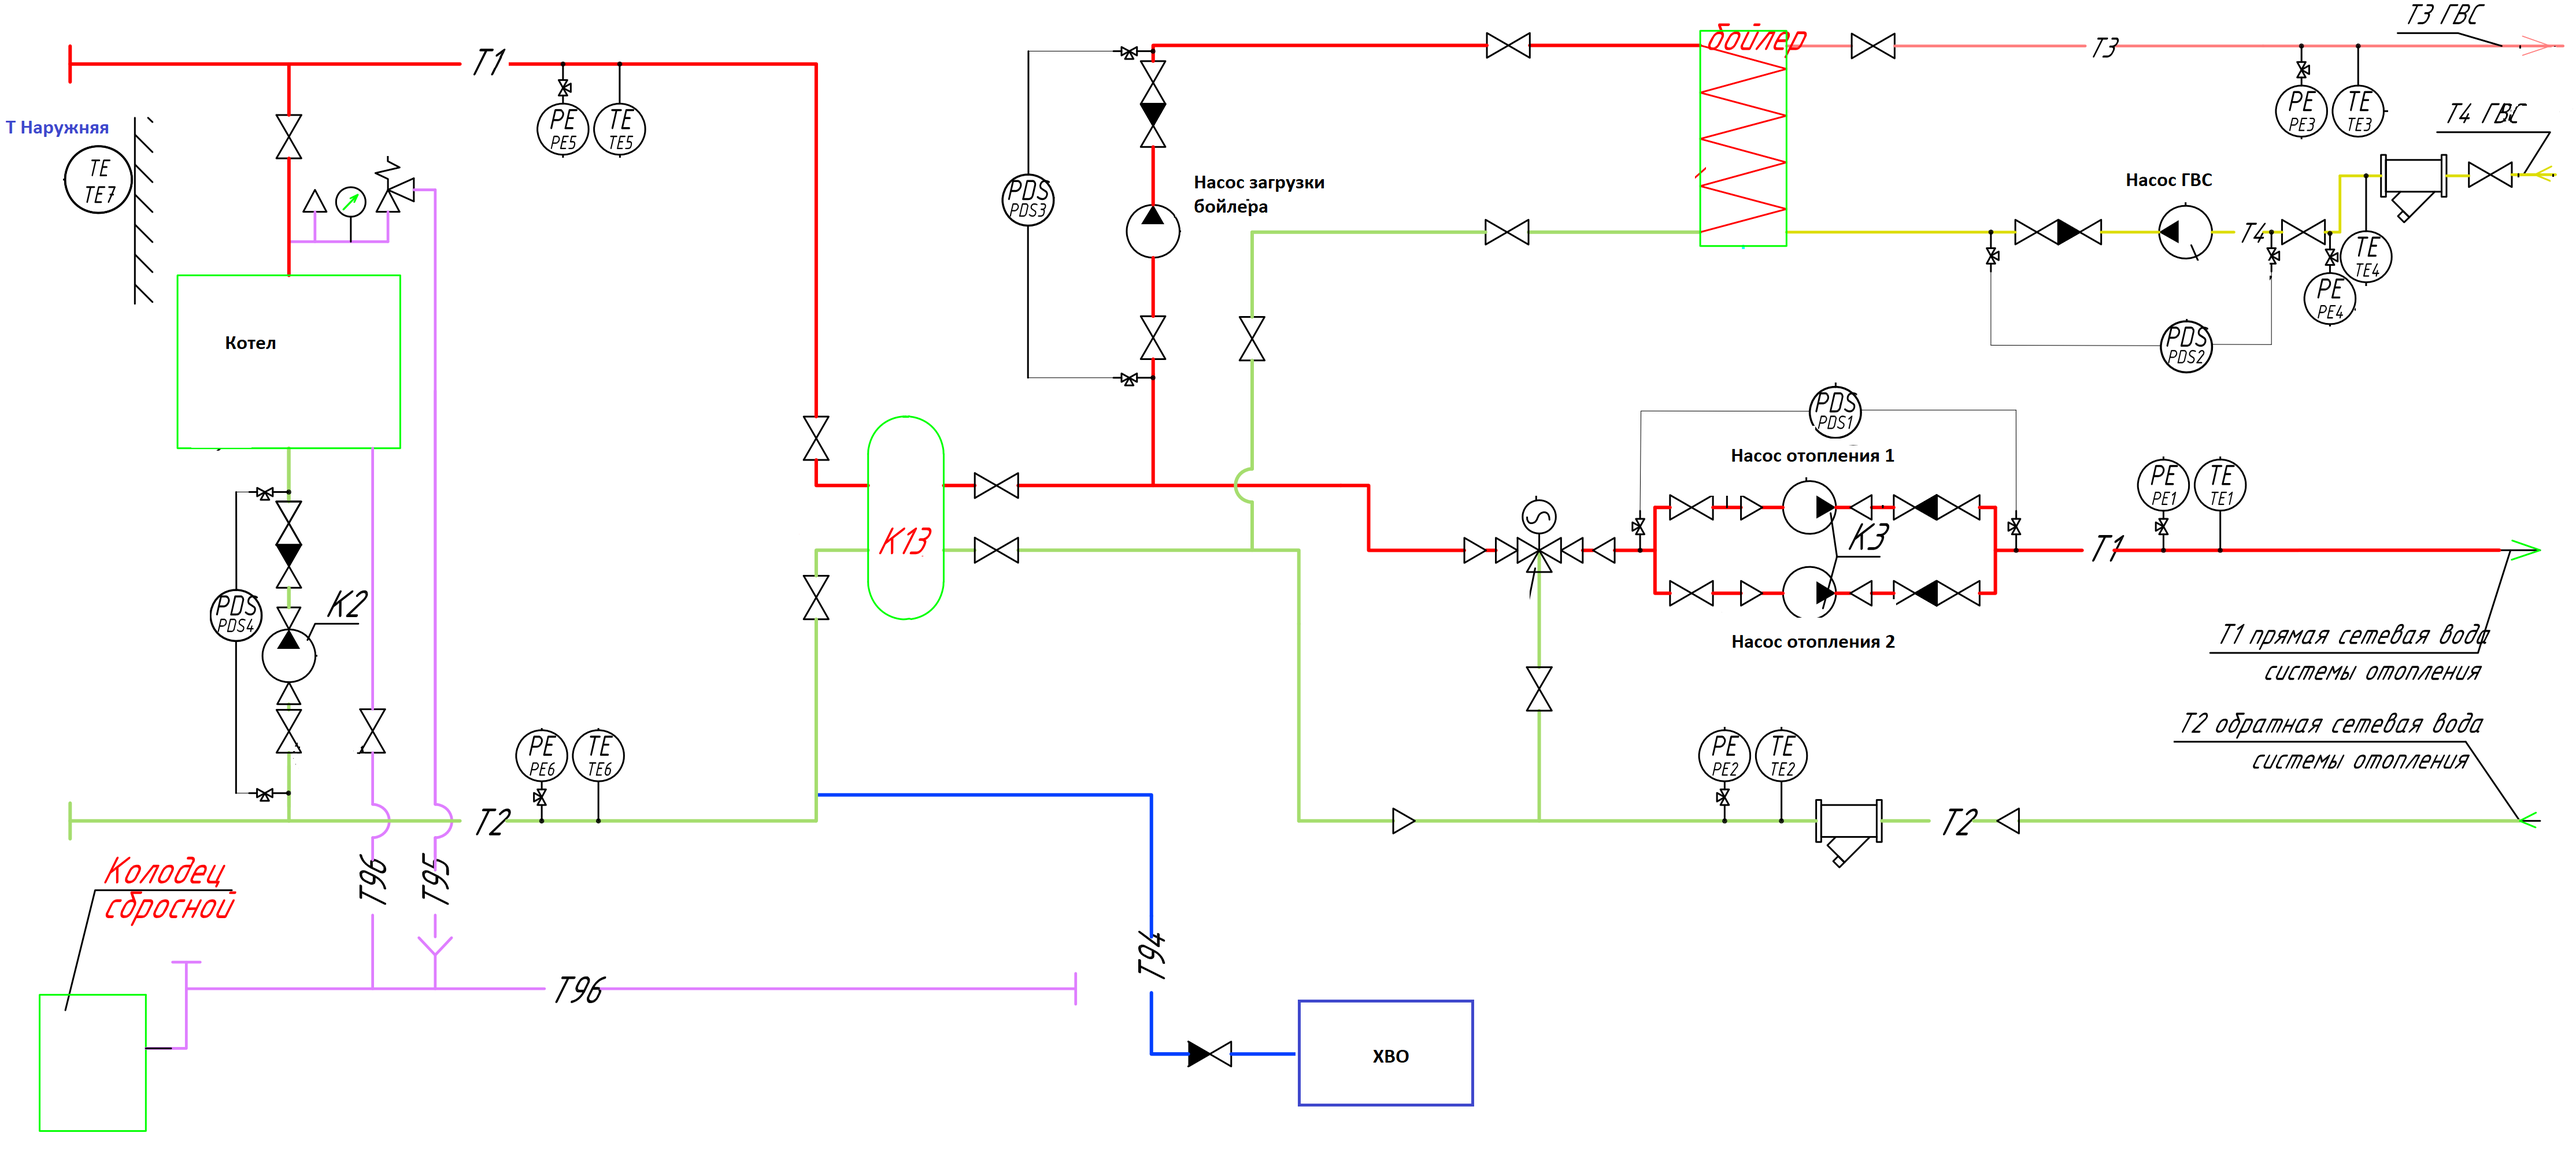
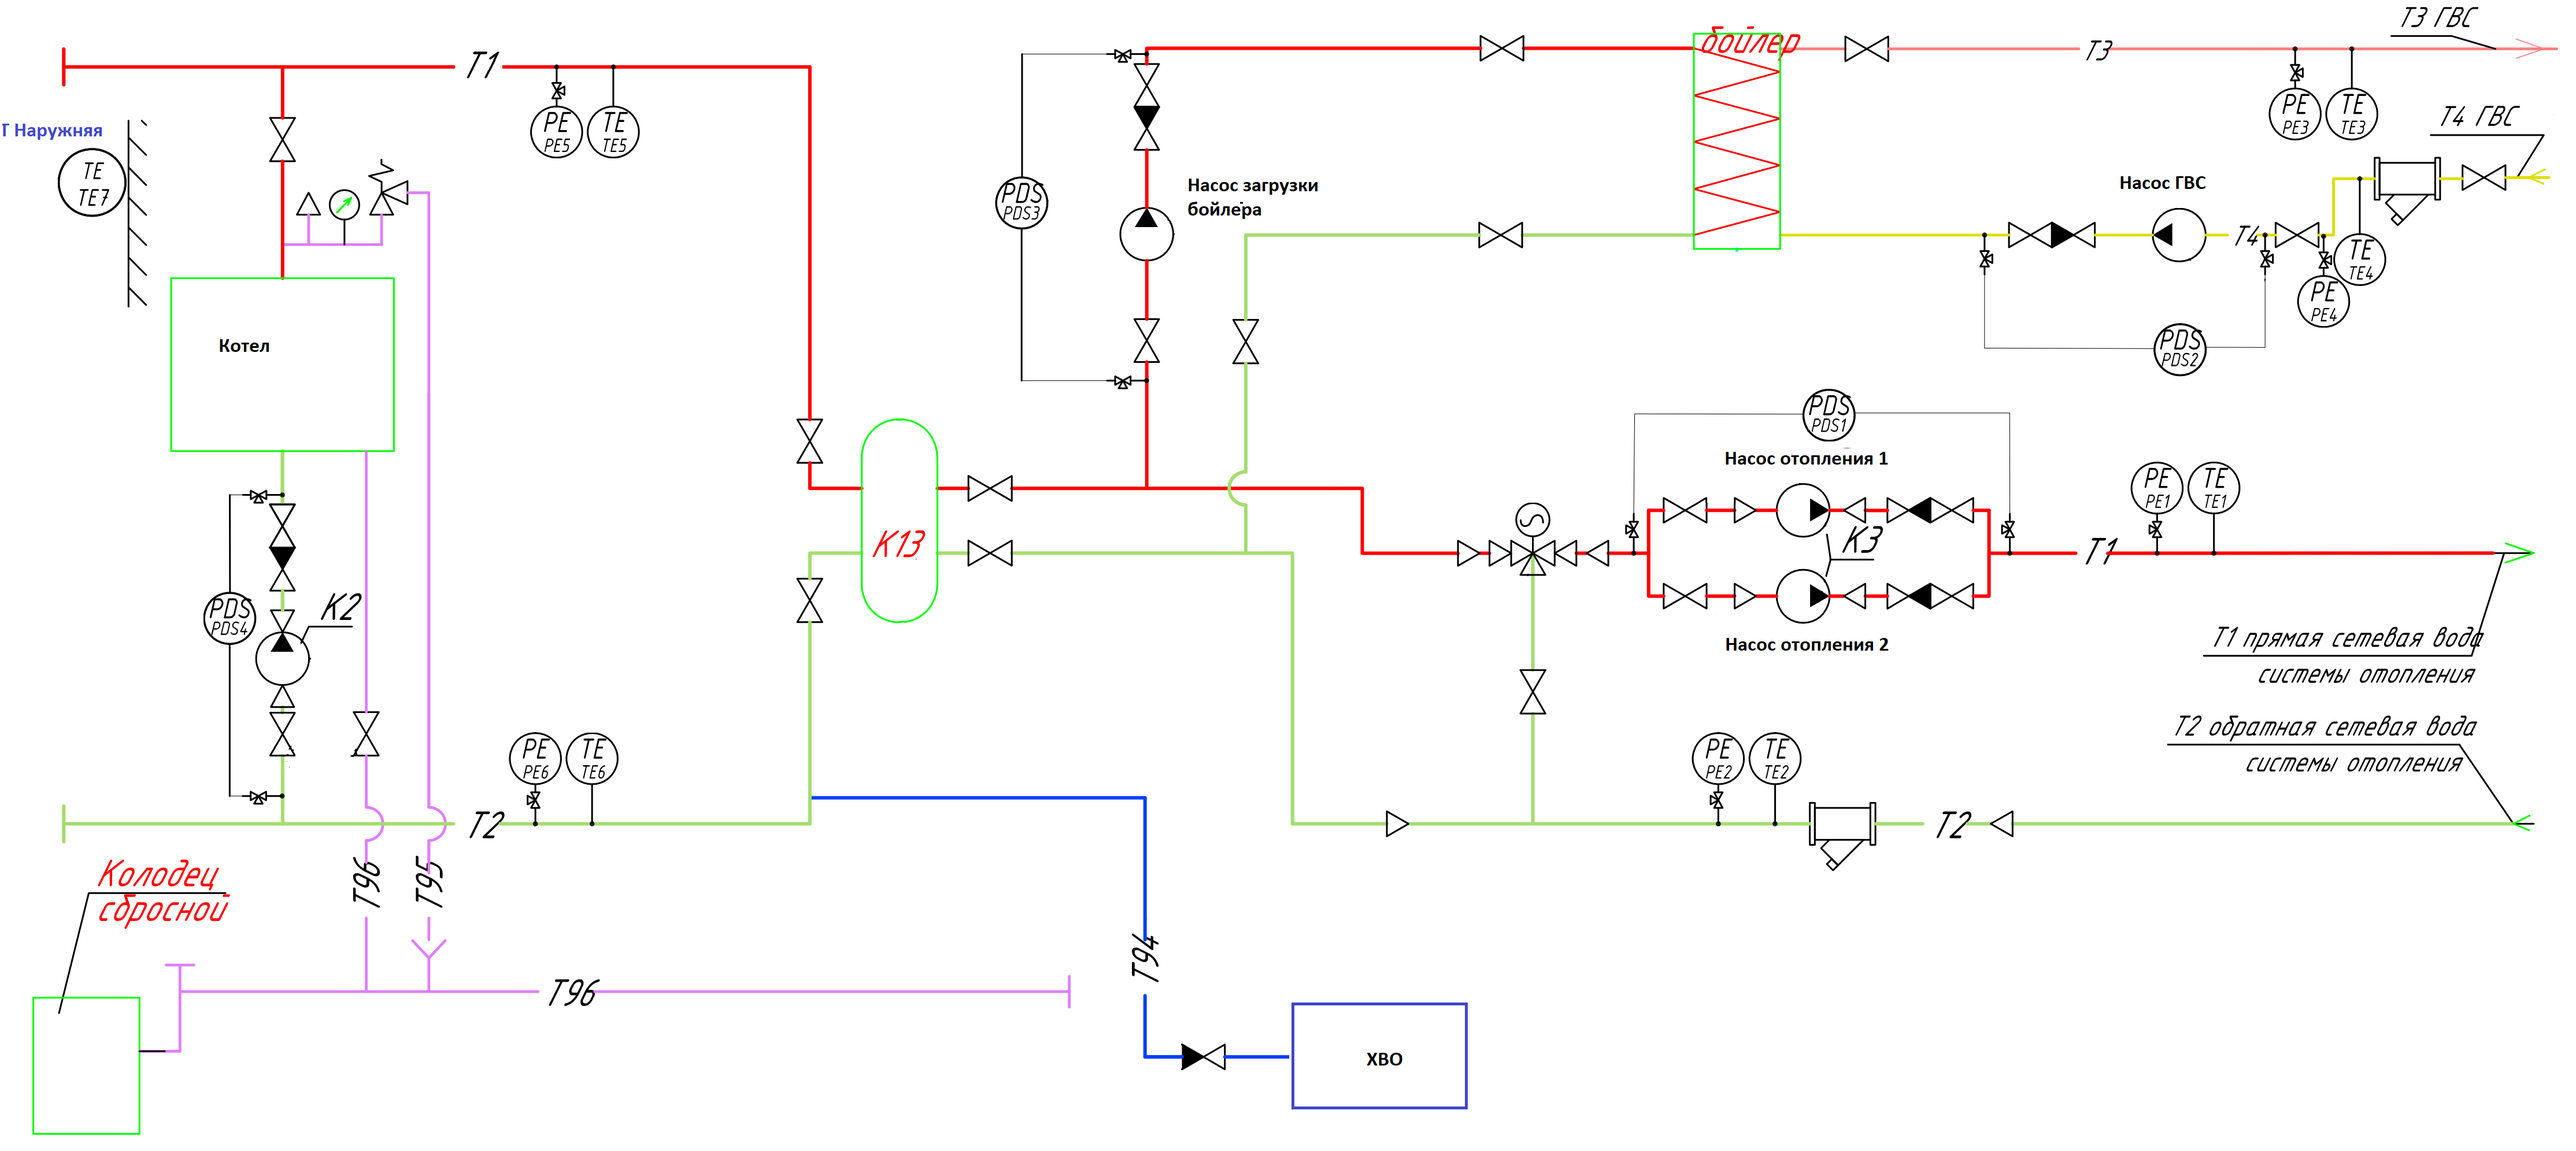
New indicators, Background2 upgdaded, bg2 indicator set complete

diff --git a/src/indicatorDefinitions.js b/src/indicatorDefinitions.js
@@ -25,14 +25,157 @@ import {
 // ─── Diagram 1 ────────────────────────────────────────────────────────────────
 
 DigitalIndicatorCreate({
-  ind_id:   'di-temp',
+  ind_id:   'te_1-1',
   bg_id:    'diagram1',
-  label:    'Temperature',
+  label:    'TE1',
+  unit:     '°C',
+  top:      830,
+  left:     1760,
+  fontSize: 26,
+});
+
+DigitalRoundCreate({
+  ind_id:    'pe_1-1',   // unique registry key
+  data_id:   'pe_1-1',         // which API name to read the value from
+  bg_id:     'diagram1',
+  label:     'PE1',
+  unit:      'bar',
+  top:       790,
+  left:      1580,
+  radius:    45,
+  fontSize:  30,
+  defaultBg: '#0a1a2a',
+});
+
+DigitalIndicatorCreate({
+  ind_id:   'te_1-2',
+  bg_id:    'diagram1',
+  label:    'TE2',
   unit:     '°C',
   top:      1270,
   left:     1425,
   fontSize: 26,
 });
+
+DigitalRoundCreate({
+  ind_id:    'pe_1-2',   // unique registry key
+  data_id:   'pe_1-2',         // which API name to read the value from
+  bg_id:     'diagram1',
+  label:     'PE2',
+  unit:      'bar',
+  top:       1300,
+  left:      1250,
+  radius:    45,
+  fontSize:  30,
+  defaultBg: '#0a1a2a',
+});
+
+DigitalIndicatorCreate({
+  ind_id:   'te_1-3',
+  bg_id:    'diagram1',
+  label:    'TE3',
+  unit:     '°C',
+  top:      130,
+  left:     1860,
+  fontSize: 26,
+});
+
+DigitalRoundCreate({
+  ind_id:    'pe_1-3',   // unique registry key
+  data_id:   'pe_1-3',         // which API name to read the value from
+  bg_id:     'diagram1',
+  label:     'PE3',
+  unit:      'bar',
+  top:       190,
+  left:      1680,
+  radius:    45,
+  fontSize:  30,
+  defaultBg: '#0a1a2a',
+});
+
+DigitalIndicatorCreate({
+  ind_id:   'te_1-4',
+  bg_id:    'diagram1',
+  label:    'TE4',
+  unit:     '°C',
+  top:      445,
+  left:     1870,
+  fontSize: 26,
+});
+
+DigitalRoundCreate({
+  ind_id:    'pe_1-4',   // unique registry key
+  data_id:   'pe_1-4',         // which API name to read the value from
+  bg_id:     'diagram1',
+  label:     'PE4',
+  unit:      'bar',
+  top:       640,
+  left:      1810,
+  radius:    45,
+  fontSize:  30,
+  defaultBg: '#0a1a2a',
+});
+
+
+DigitalIndicatorCreate({
+  ind_id:   'te_1-5',
+  bg_id:    'diagram1',
+  label:    'TE5',
+  unit:     '°C',
+  top:      380,
+  left:     540,
+  fontSize: 26,
+});
+
+DigitalRoundCreate({
+  ind_id:    'pe_1-5',   // unique registry key
+  data_id:   'pe_1-5',         // which API name to read the value from
+  bg_id:     'diagram1',
+  label:     'PE5',
+  unit:      'bar',
+  top:       400,
+  left:      440,
+  radius:    45,
+  fontSize:  30,
+  defaultBg: '#0a1a2a',
+});
+
+DigitalRoundCreate({
+  ind_id:    'pe_1-6',   // unique registry key
+  data_id:   'pe_1-6',         // which API name to read the value from
+  bg_id:     'diagram1',
+  label:     'PE6',
+  unit:      'bar',
+  top:       1200,
+  left:      410,
+  radius:    45,
+  fontSize:  30,
+  defaultBg: '#0a1a2a',
+});
+
+DigitalIndicatorCreate({
+  ind_id:   'te_1-6',
+  bg_id:    'diagram1',
+  label:    'TE6',
+  unit:     '°C',
+  top:      1180,
+  left:     510,
+  fontSize: 26,
+});
+
+
+
+DigitalIndicatorCreate({
+  ind_id:   'te_1-7',
+  bg_id:    'diagram1',
+  label:    'TE7',
+  unit:     '°C',
+  top:      450,
+  left:     90,
+  fontSize: 26,
+});
+
+
 /*
 DigitalIndicatorCreate({
   ind_id:   'di-pressure',
@@ -45,26 +188,15 @@ DigitalIndicatorCreate({
   color:    '#00ffff',
 });
 */
-DigitalRoundCreate({
-  ind_id:    'di-pressure-round',   // unique registry key
-  data_id:   'di-pressure',         // which API name to read the value from
-  bg_id:     'diagram1',
-  label:     'Pressure',
-  unit:      'bar',
-  top:       1300,
-  left:      1250,
-  radius:    45,
-  fontSize:  30,
-  defaultBg: '#0a1a2a',
-});
+
 
 DigitalIndicatorCreate({
   ind_id:   'di-valve',
   bg_id:    'diagram1',
   label:    'Valve',
   unit:     '%',
-  top:      750,
-  left:     1150,
+  top:      800,
+  left:     1180,
   fontSize: 26,
   color:    '#00ffff',
 });
@@ -73,17 +205,18 @@ PumpIndicatorCreate({
   ind_id: 'pump1',
   bg_id:  'diagram1',
   label:  'PumpOne',
-  top:    262,
+  top:    435,
   left:   895,
   size:   60,
 });
 
 PumpIndicatorCreate({
-  ind_id: 'pump2',
+  ind_id: 'pds3',
   bg_id:  'diagram1',
-  label:  'PumpTwo',
-  top:    200,
-  left:   798,
+  label:  'PDS3',
+  fontSize: 26,
+  top:    385,
+  left:   803,
   size:   60,
 });
 /*
@@ -99,22 +232,102 @@ OnOffIndicatorCreate({
 */
 // ─── Diagram 2 ────────────────────────────────────────────────────────────────
 
-/*
-GasBurnerIndicatorCreate({
-  ind_id:   'burner_one',
-  bg_id:    'diagram2',
-  label:    'Burn',
-  top:      1850,
-  left:     420,
-  fontsize: 26,
+OnOffIndicatorCreate({
+  ind_id: 'cooling',
+  bg_id:  'diagram2',
+  label:  'Cooling',
+  top:    1495,
+  left:   548,
+  radius: 36,
+  color:  '#00e676',
 });
-*/
+
+OnOffIndicatorCreate({
+  ind_id: 'chimney',
+  bg_id:  'diagram2',
+  label:  'Chimney',
+  top:    1210,
+  left:   1160,
+  radius: 36,
+  color:  '#00e676',
+});
+
+OnOffIndicatorCreate({
+  ind_id: 'cyclon',
+  bg_id:  'diagram2',
+  label:  'Cyclon',
+  top:    1240,
+  left:   1035,
+  radius: 36,
+  color:  '#00e676',
+});
+
+DigitalIndicatorCreate({
+  ind_id:   'te_2-1',
+  bg_id:    'diagram2',
+  label:    'TE1',
+  unit:     '°C',
+  top:      1215,
+  left:     240,
+  fontSize: 26,
+});
+
+DigitalIndicatorCreate({
+  ind_id:   'te_2-2',
+  bg_id:    'diagram2',
+  label:    'TE2',
+  unit:     '°C',
+  top:      1645,
+  left:     335,
+  fontSize: 26,
+});
+
+DigitalIndicatorCreate({
+  ind_id:   'te_2-3',
+  bg_id:    'diagram2',
+  label:    'TE3',
+  unit:     '°C',
+  top:      100,
+  left:     1660,
+  fontSize: 26,
+});
+
+DigitalIndicatorCreate({
+  ind_id:   'te_2-4',
+  bg_id:    'diagram2',
+  label:    'TE4',
+  unit:     '°C',
+  top:      860,
+  left:     560,
+  fontSize: 26,
+});
+
+DigitalIndicatorCreate({
+  ind_id:   'te_2-5',
+  bg_id:    'diagram2',
+  label:    'TE5',
+  unit:     '°C',
+  top:      860,
+  left:     1035,
+  fontSize: 26,
+});
+
+DigitalIndicatorCreate({
+  ind_id:   'te_2-6',
+  bg_id:    'diagram2',
+  label:    'TE6',
+  unit:     '°C',
+  top:      550,
+  left:     1150,
+  fontSize: 26,
+});
+
 GasBurnerIndicatorCreate({
   ind_id:   'burner_one',
   bg_id:    'diagram2',
   label:    'Burner1',
-  top:      1660,
-  left:     225,
+  top:      1325,
+  left:     260,
   fontsize: 26,
   burnerType: 'small',
   scale:      0.9,  
@@ -124,8 +337,8 @@ GasBurnerIndicatorCreate({
   ind_id:   'burner_two',
   bg_id:    'diagram2',
   label:    'Burner2',
-  top:      1810,
-  left:     285,
+  top:      1550,
+  left:     260,
   fontsize: 26,
   burnerType: 'small',
   scale:      0.9,  
@@ -135,8 +348,8 @@ GasBurnerIndicatorCreate({
   ind_id:   'burner_three',
   bg_id:    'diagram2',
   label:    'Burner3',
-  top:      660,
-  left:     1180,
+  top:      430,
+  left:     1190,
   fontsize: 26,
   burnerType: 'small',
   scale:      0.9,  
@@ -146,8 +359,8 @@ GasFlapIndicatorCreate({
   ind_id:   'burner_flap',
   bg_id:    'diagram2',
   label:    'Заслонка',
-  top:      1300,
-  left:     750,
+  top:      900,
+  left:     650,
   fontsize: 26,
   labelChimney: 'Выхлоп',
   labelBypass: 'Мимо',
